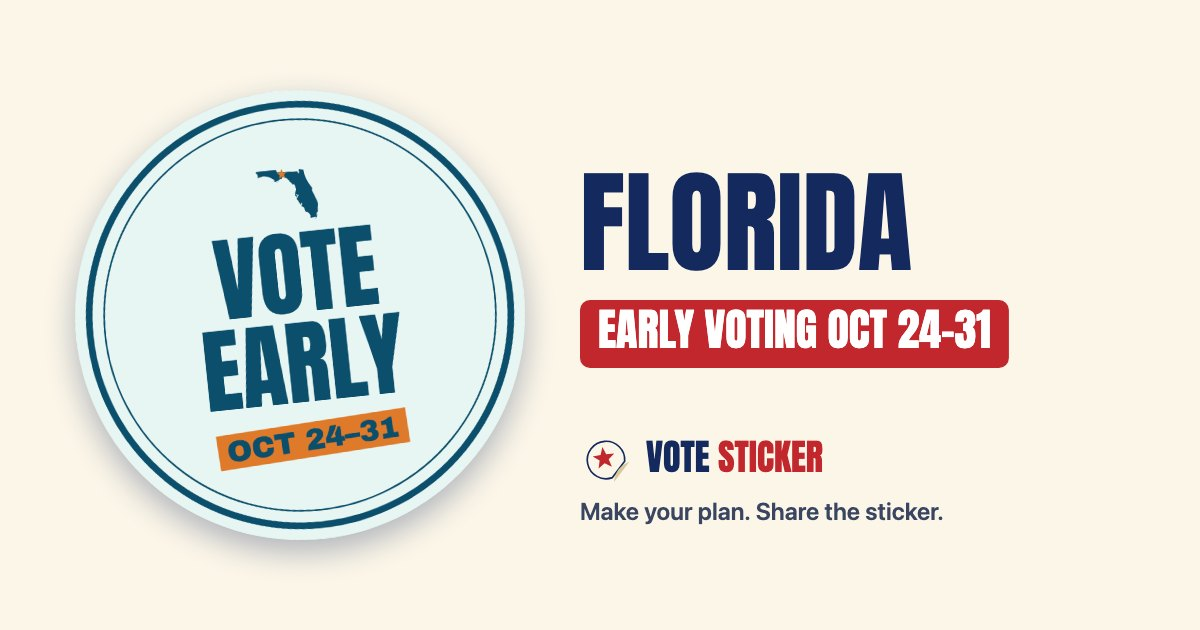
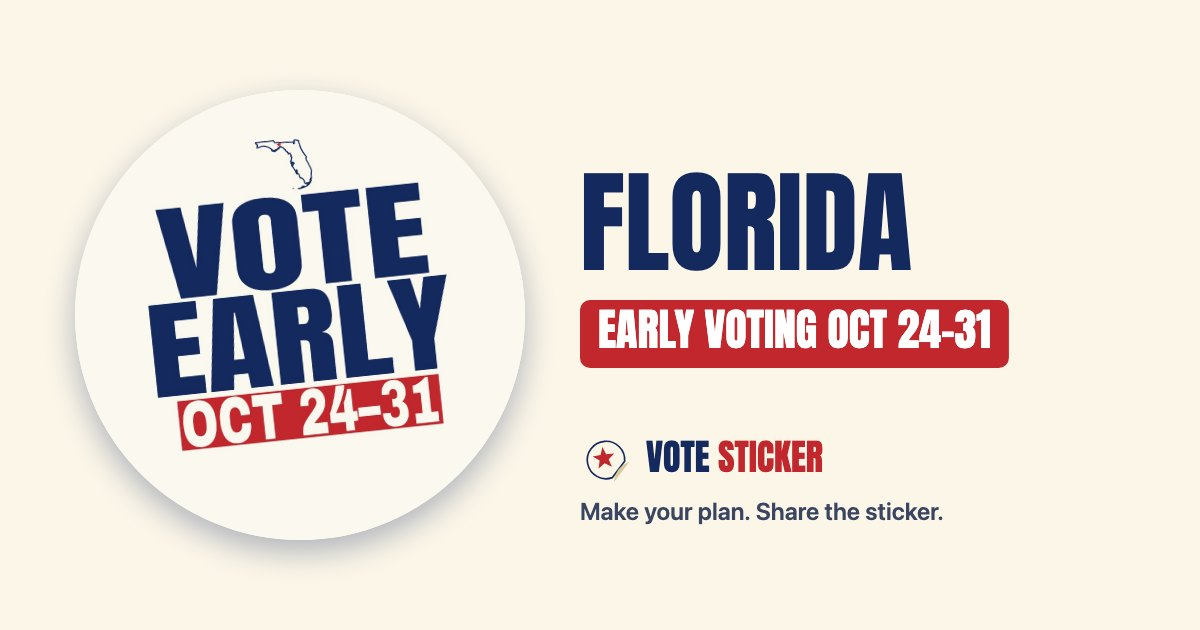
Spanish messages, FL/MD/NJ sets, prompt rewrite with a fixed core four and six free concepts
- Maker: Vota temprano, Vota por correo, Vota 3 de nov, Yo voté, Yo voté temprano, Yo voté por correo
  (tú form; day-first Spanish date bars); line cap 10 characters
- Ready-made sets: Florida 6, Maryland 6, New Jersey 4 (16 of 32 kept; originals in originals/)
- Prompts: context and three example images in the setup message; images 1-4 fixed spec, 5-10 six
  different concepts; solid outlines and condensed display type required; FL, MD, NJ reopened

Changed region(s): [[0.0617, 0.1508, 0.4317, 0.8444]]

diff --git a/docs/round3-prompts-one-state.html b/docs/round3-prompts-one-state.html
@@ -6,70 +6,74 @@ h1,h2,h3,h4{color:var(--ink)}h4{margin:28px 0 8px}
 pre{white-space:pre-wrap;background:var(--panel);border:1px solid var(--line);padding:40px 14px 14px;border-radius:8px;font-size:14px}
 .done{margin:4px 0;color:#6b7080}h4 label{cursor:pointer;display:flex;gap:10px;align-items:center}h4 input,.done input{width:20px;height:20px}h4.is-done{opacity:.55;text-decoration:line-through}.blk{position:relative}button{position:absolute;right:8px;top:8px;background:#14295E;color:#fff;border:0;border-radius:6px;padding:6px 12px;cursor:pointer}</style></head><body>
 <h1>Ready-Made Set Prompts: One State at a Time</h1>
-<p>Written October 19, 2026, after ChatGPT stalled on the six-state prompt. Covers every state without a</p>
-<p>ready-made set; dates come from <code>site/states.js</code> (regenerate the list with <code>build/prompt_states.py</code>). Start a new chat, attach 2 or 3 Texas images, send the setup message, then send</p>
-<p>one state message. Send the next state only after that state&#x27;s zip arrives. Two states per chat is the</p>
-<p>most to try; start a fresh chat after that.</p>
-<p>The Shape layout changed: round 2 lost 15 of 60 images to headlines set inside the state outline, so</p>
-<p>text and outline never overlap now.</p>
+<p>Updated October 19, 2026 (evening). Covers every state that still needs a set; dates come from</p>
+<p><code>site/states.js</code> (regenerate with <code>build/prompt_states.py</code>, then <code>build/prompts_html.py</code>).</p>
+<p>**How to run it:** start a new chat. Attach these three images from <code>site/assets/states/</code> as the</p>
+<p>examples: <code>tx/tx-vote-2.jpg</code> (Texas, big type), <code>md/md-vote-1.jpg</code> (Maryland, large solid map), and</p>
+<p><code>nc/nc-vote-2.jpg</code> (North Carolina, badge). Send the setup message, wait for &quot;Ready,&quot; then send one state</p>
+<p>message. Send the next state only after that state&#x27;s zip arrives. Start a fresh chat every two states.</p>
+<p>**Why the split:** images 1 to 4 follow a fixed spec so every state has a dependable core set. Images 5</p>
+<p>to 10 are six different design ideas, because Florida, Maryland, and New Jersey came back as one layout</p>
+<p>in ten colors.</p>
 <h2>1. Setup Message (Once per Chat)</h2>
-<div class="blk"><button onclick="navigator.clipboard.writeText(document.getElementById('b1').innerText);this.textContent='Copied'">Copy</button><pre id="b1">I&#x27;m making nonpartisan &quot;vote&quot; profile pictures for friends in different states. The attached Texas images show the style. I&#x27;ll send one state at a time. For each state you make 10 images, check them, and give me one zip. Then stop and wait for the next state.
+<div class="blk"><button onclick="navigator.clipboard.writeText(document.getElementById('b1').innerText);this.textContent='Copied'">Copy</button><pre id="b1">WHAT THIS IS
+I run VoteSticker.org, a free, nonpartisan site where people pick their state and save a &quot;vote&quot; sticker to use as their profile picture on Facebook, Instagram, LinkedIn, and X. Each state gets a set of 10 ready-made stickers with that state&#x27;s own voting message and dates. The goal: a friend scrolling past sees it at thumbnail size, reads the message instantly, and checks when they can vote. Someone from that state should be proud to use it.
 
-FORMAT (every image)
-- One square image per reply, 1:1, at least 1080 x 1080 px. Never a grid, collage, contact sheet, or preview of several designs in one image.
-- These are profile pictures. Facebook, Instagram, LinkedIn, and X crop them to a circle and show them as small as 40 px. Keep ALL text and art inside a centered circle about 80% of the image width. The background color fills the whole square; corners hold only that color.
+The three attached images are examples of what works: a huge condensed headline, a solid state outline with a star on the capital, the dates on a solid bar, two or three flat colors. Match their quality and clarity, not their exact layout.
 
-TEXT
+I&#x27;ll send one state at a time. For each state: make 10 images one at a time, check them, give me one zip, then stop and wait.
+
+RULES FOR ALL 10 IMAGES
+Format
+- One square image per reply, at least 1080 x 1080 px. Never a grid, collage, or preview sheet of several designs.
+- Social sites crop profile pictures to a circle and show them as small as 40 px. Keep ALL text and art inside a centered circle about 80% of the image width. Corners hold only background color.
+
+Text
 - Use only the exact headline and date line I give for the state. No other words, no URL, no hashtags, no state name.
-- Each state&#x27;s dates are different. Never carry a date, outline, or capital over from an earlier state in this chat.
-- All caps, spelled exactly. Date ranges use an en dash (OCT 24–NOV 1), never a hyphen or em dash.
-- Headline in a heavy condensed sans like Anton; date line in a wide heavy sans like Archivo Black.
-- The headline is the picture. Its two lines together take up about half the image&#x27;s height and most of the circle&#x27;s width, centered. The date line sits directly under it, at least a third of the headline&#x27;s letter height.
-- Test every image by imagining it shrunk to a 48 px circle: VOTE EARLY (or the given headline) and the date must still be readable.
+- Spell everything exactly, all caps. Date ranges use an en dash (OCT 24–NOV 1), never a hyphen.
+- Each state&#x27;s details are its own. Never carry a date, outline, or capital over from an earlier state.
+- The headline is the picture: its lines take up about half the image&#x27;s height, in a heavy condensed display face like Anton or Bebas Neue (never a regular bold sans like Arial). The date line sits right under it, at least a third of the headline&#x27;s letter height, in a wide heavy sans like Archivo Black.
+- Shrunk to a 48 px circle, the headline and date must still read.
 
-ART
-- Flat vector, 2 or 3 solid colors, high contrast. No gradients, textures, shadows, photos, or 3D.
-- The only art allowed: the state outline, the capital star, an optional thin ring inside the crop circle, and the solid bar behind the date. No scenes or illustrations: no palm trees, birds, flowers, skylines, sunsets, beaches, mountains, or landmarks. They turn to mush at thumbnail size and push the words down.
-- The state outline stays small: no wider than about a third of the image, above or beside the headline.
-- Never put the headline inside the state outline, and never let text overlap the outline. Keep the outline above, beside, or below the text, or leave it out.
-- The outline must be accurate at its true proportions. Never stretch or squash it; make it smaller instead.
-- A small five-point star marks the capital at its real location. The star never touches or cuts into a letter.
+Art
+- Flat vector, 2 or 3 solid colors, strong contrast. No gradients, photos, textures, or 3D.
+- The state outline is a solid filled shape (never a thin line drawing), accurate, at its true proportions, never stretched. A small five-point star marks the capital at its real location and never touches a letter.
+- Never put the headline inside the outline or let text overlap it.
 - Nonpartisan: no flags, party symbols, red-versus-blue themes, ballots, checkmarks, people, or logos.
+- No scenes or illustrations: no palm trees, birds, skylines, sunsets, beaches, or landmarks.
 
-PALETTES
-- Cream: background #FBF8F0, ink #14295E, accent #C1272D
-- Navy: background #0F2558, ink #FBF6E8, accent #B3262C
-- Forest: background #0A3D2C, ink #FBF6E8, accent #D4AF4A
-- Sand: background #EBDABF, ink #1F1E1C, accent #A9552A
-- Sky: background #D4E8FA, ink #14295E, accent #C1272D
-- Sage: background #8FAF88, ink #0B3A23, accent #E0BC4E
+IMAGES 1 TO 4: THE CORE SET (follow exactly)
+1. Shape layout in Cream: background #FBF8F0, ink #14295E, accent #C1272D. A large solid outline across the upper part (as wide as the headline), star on the capital, headline below it, dates in an accent bar.
+2. Big type layout in Navy: background #0F2558, ink #FBF6E8, accent #B3262C. A small outline on top, the headline as big as it goes, dates in an accent bar.
+3. Badge layout in Forest: background #0A3D2C, ink #FBF6E8, accent #D4AF4A. A thin ring just inside the crop circle, small outline, headline, dates in an accent bar.
+4. Shape layout in the state&#x27;s own palette (given in the state message).
 
-LAYOUTS
-- Shape: medium state outline in ink in the upper part of the circle, capital star on it, headline below the outline (not touching it), date line in an accent bar at the bottom.
-- Big type: small state outline on top, huge two-line headline, date line in a solid accent-color bar.
-- Badge: thin ring just inside the crop circle, small state outline, headline, date in an accent bar.
-
-IMAGES 1 TO 4 (guidelines)
-Shape in Cream, Big type in Navy, Badge in Forest, and Shape in the state&#x27;s own palette.
-
-IMAGES 5 TO 10 (variations)
-Six more. The goal is a picture that makes a friend scrolling past stop and check when they can vote, and that someone from this state would be proud to use. Vary only the palette (any 2 or 3 flat colors with strong contrast, including colors that feel like the state), the type arrangement (stacked, slightly tilted, headline in a solid shape), the position of the small outline, and whether there&#x27;s a ring. No added illustrations. Everything in FORMAT, TEXT, and ART still applies. Make the six different from each other and from images 1 to 4.
+IMAGES 5 TO 10: SIX DIFFERENT IDEAS (creative freedom inside the rules)
+Make each one a different concept, not the core layouts in new colors. Pick six of these, or invent your own that fit the rules:
+- Map hero: the solid outline large and in the accent color, headline stacked below it big.
+- Side by side: outline on the left, headline stacked on the right, dates under both.
+- Sticker: a disc with a thick ring and a thin inner ring, dates on a bar tipped a few degrees.
+- Two-tone headline: first line in one color, second line in the accent, dates between two short rules.
+- Stamp: the headline knocked out of a solid rounded block, outline above, dates below.
+- Split field: the background split on a clean diagonal into two flat colors, headline across the split in a color that reads on both.
+- Ticket: the headline inside a ticket shape with notched corners, dates on the stub.
+- Bold border: a thick solid border band inside the circle in the accent color, everything centered inside it.
+Colors for 5 to 10: any 2 or 3 flat colors with strong contrast, including colors that feel like the state (its landscape or seasons), never red against blue. One small flat accent is allowed (a wave line, a leaf, a sunburst) if it&#x27;s simple, one color, and smaller than the outline.
+Before making them, list the six concepts you picked in one line each, then make them.
 
 BEFORE THE ZIP: CHECK ALL 10
-Look at each image again and redo any that fails:
-1. Headline and date line spelled exactly as given, nothing added, en dash in ranges.
-2. Everything inside the center circle; corners are plain background. One design per image, not a grid.
-2b. Shrunk to 48 px, the headline and date still read. The headline fills about half the height. No scenery or illustrations.
-3. Text never overlaps the state outline; the star doesn&#x27;t touch a letter.
-4. Outline accurate and not stretched; star on the capital, not a big city or border.
-5. Headline still readable shrunk to 48 px.
-6. No two images look nearly the same.
-Then tell me &quot;10 of 10 checked&quot; and list any you redid and why.
+Redo any image that fails:
+1. Headline and date line exactly as given, en dash in ranges, nothing added.
+2. Everything inside the center circle, one design per image.
+3. Readable at 48 px; the headline fills about half the height.
+4. Solid outline, accurate, not stretched; star on the capital, clear of letters; no text over the outline.
+5. Images 5 to 10 are six different concepts, not color swaps of each other or of 1 to 4.
+Then say &quot;10 of 10 checked&quot; and list any you redid and why.
 
 THE ZIP
 - One zip per state named [State]-[Message]-10-Profile-Pictures (for example Florida-Vote-Early-10-Profile-Pictures).
 - Inside: exactly 10 PNGs named [state]-01-[layout]-[palette].png through [state]-10-..., lowercase with hyphens.
-- After the zip, list the 10 file names it holds, then stop and wait for my next state.
+- After the zip, list the 10 file names, then stop and wait for my next state.
 
 Reply &quot;Ready&quot; and wait for the first state.</pre></div>
 <h2>2. State Messages (One per Turn)</h2>
@@ -89,6 +93,7 @@ Reply &quot;Ready&quot; and wait for the first state.</pre></div>
 <p class="done"><input type="checkbox" checked disabled aria-label="Colorado done"> <s>Colorado</s> (7 stickers live)</p>
 <p class="done"><input type="checkbox" checked disabled aria-label="Kansas done"> <s>Kansas</s> (10 stickers live)</p>
 <p class="done"><input type="checkbox" checked disabled aria-label="District of Columbia done"> <s>District of Columbia</s> (10 stickers live)</p>
+<p>Redo (current sets look too much alike; they stay live until replaced): Florida, New Jersey, Maryland.</p>
 <h3>Verified Dates</h3>
 <h4><label><input type="checkbox" class="track" data-key="-florida-vote-early-oct-"> 1. Florida (VOTE / EARLY, OCT 24–31)</label></h4>
 <div class="blk"><button onclick="navigator.clipboard.writeText(document.getElementById('b2').innerText);this.textContent='Copied'">Copy</button><pre id="b2">Florida. Use these exact details in all 10 images, and nothing from earlier states: Headline: VOTE / EARLY. Date line: OCT 24–31. Capital star: Tallahassee. Include the panhandle at its true length; keep the outline small rather than squashing it. State palette (gulf and citrus): background #E8F6F3, ink #0B4F6C, accent #F28F3B. Make the 10, check them, then send the zip.</pre></div>

diff --git a/site/app.js b/site/app.js
@@ -70,7 +70,7 @@
 		{ id: 'type', name: 'Big type' },
 		{ id: 'badge', name: 'Badge' }
 	];
-	// Short lines only, at most 9 characters each, so a card reads at 40 px in a comment thread
+	// Short lines only, at most 10 characters each (POR CORREO), so a card reads at 40 px in a comment thread
 	// (Garrett, October 19; QA enforces the limit).
 	// `early` headlines only where a verified row has early voting, `mail` only in all-mail states;
 	// everywhere else the card says VOTE NOV 3.
@@ -82,9 +82,16 @@
 		// who has voted, any state, any day.
 		// Its date bar names the state and year instead of a date.
 		ivoted: { label: 'I voted', lines: ['I VOTED'], stateLine: true },
-		yovote: { label: 'Yo voté (Spanish)', lines: ['YO VOTÉ'], stateLine: true },
 		mailed: { mail: true, label: 'I voted by mail', lines: ['I VOTED', 'BY MAIL'], stateLine: true },
 		voted: { early: true, label: 'I voted early', lines: ['I VOTED', 'EARLY'] },
+		// Spanish (October 19): the informal tú form used in Mexican and US Latino voter outreach. Date bars
+		// put the day first ("19–30 OCT", "HASTA EL 27 OCT").
+		votatemprano: { early: true, es: true, label: 'Vota temprano (español)', lines: ['VOTA', 'TEMPRANO'] },
+		votacorreo: { mail: true, es: true, label: 'Vota por correo (español)', lines: ['VOTA', 'POR CORREO'] },
+		vota3nov: { dated: true, es: true, label: 'Vota 3 de nov (español)', lines: ['VOTA', '3 DE NOV'] },
+		yovote: { es: true, label: 'Yo voté (español)', lines: ['YO VOTÉ'], stateLine: true },
+		yovotetemprano: { early: true, es: true, label: 'Yo voté temprano (español)', lines: ['YO VOTÉ', 'TEMPRANO'] },
+		yovotecorreo: { mail: true, es: true, label: 'Yo voté por correo (español)', lines: ['YO VOTÉ', 'POR CORREO'], stateLine: true },
 	};
 
 	function hasEarly(st) { return st.status === 'verified' && st.kind !== 'none'; }
@@ -134,7 +141,9 @@
 	// The date line a card starts with, for a state and headline. A headline that already carries the
 	// date (VOTE NOV 3) gets ELECTION DAY under it.
 	function defaultDateLine(st, headline) {
-		if (headline && HEADLINES[headline] && HEADLINES[headline].dated) { return 'ELECTION DAY'; }
+		var hd = headline && HEADLINES[headline];
+		if (hd && hd.es && !hd.stateLine) { return spanishDateLine(st, hd); }
+		if (hd && hd.dated) { return 'ELECTION DAY'; }
 		// Short enough to read in a thumbnail: the name up to 10 letters, else the postal code (NC 2026).
 		if (headline && HEADLINES[headline] && HEADLINES[headline].stateLine) { return (st.name.length <= 10 ? st.name.toUpperCase() : st.abbr) + ' ' + ELECTION.day.slice(0, 4); }
 		if (!hasEarly(st)) { return electionLine(); }
@@ -142,6 +151,19 @@
 		if (st.kind === 'mail') { return 'DUE ' + shortDate(day(st.end)); }
 		if (!st.start || !st.end) { return electionLine(); }
 		return rangeLine(day(st.start), day(st.end));
+	}
+
+	// Spanish date bars: day before month, "HASTA EL" for a last day.
+	var MESES = { JAN: 'ENE', APR: 'ABR', AUG: 'AGO', SEP: 'SEPT', DEC: 'DIC' };
+	function mes(d) { var m = MONTHS[d.getMonth()]; return MESES[m] || m; }
+	function spanishDateLine(st, hd) {
+		if (hd.dated || !hasEarly(st)) { return 'DÍA DE ELECCIONES'; }
+		if (st.kind === 'mail') { return 'HASTA EL ' + day(st.end).getDate() + ' ' + mes(day(st.end)); }
+		var by = /^BY ([A-Z]{3}) (\d+)$/.exec(st.dateLine || '');
+		if (by) { return 'HASTA EL ' + by[2] + ' ' + (MESES[by[1]] || by[1]); }
+		if (!st.start || !st.end) { return 'DÍA DE ELECCIONES'; }
+		var a = day(st.start), b = day(st.end);
+		return a.getMonth() === b.getMonth() ? a.getDate() + '–' + b.getDate() + ' ' + mes(b) : a.getDate() + ' ' + mes(a) + '–' + b.getDate() + ' ' + mes(b);
 	}
 
 	function luminance(hex) {

diff --git a/build/prompt_states.py b/build/prompt_states.py
@@ -104,15 +104,18 @@ def main():
         if l.strip().startswith('{"abbr"'):
             r = json.loads(l.strip().rstrip(','))
             rows[r['abbr']] = r
-    have = {p.name.upper() for p in (ROOT / 'site/assets/states').iterdir() if p.is_dir()}
+    # States whose first sets were too samey to keep as final (October 19): redo them; their current
+    # images stay live until the new ones replace them.
+    redo = {'FL', 'MD', 'NJ'}
+    have = {p.name.upper() for p in (ROOT / 'site/assets/states').iterdir() if p.is_dir()} - redo
     todo = [a for a in POP if a in rows and a not in have]
-    assert set(todo) | have == set(rows), set(rows) - set(todo) - have
     groups = [('Verified Dates', lambda r: r['status'] == 'verified'),
               ('Dates Not Yet Verified (Election Day Message)', lambda r: r['status'] != 'verified')]
     out = ['### Already Built (Skip These)\n']
     for a in [a for a in POP if a in have]:
         k = len(list((ROOT / 'site/assets/states' / a.lower()).glob('*.jpg')))
         out.append(f'- ~~{rows[a]["name"]}~~ ({k} stickers live)')
+    out.append(f'\nRedo (current sets look too much alike; they stay live until replaced): {", ".join(rows[a]["name"] for a in POP if a in redo)}.')
     out.append('')
     n = 0
     for title, test in groups:

diff --git a/docs/round3-prompts-one-state.md b/docs/round3-prompts-one-state.md
@@ -1,73 +1,78 @@
 # Ready-Made Set Prompts: One State at a Time
 
-Written October 19, 2026, after ChatGPT stalled on the six-state prompt. Covers every state without a
-ready-made set; dates come from `site/states.js` (regenerate the list with `build/prompt_states.py`). Start a new chat, attach 2 or 3 Texas images, send the setup message, then send
-one state message. Send the next state only after that state's zip arrives. Two states per chat is the
-most to try; start a fresh chat after that.
+Updated October 19, 2026 (evening). Covers every state that still needs a set; dates come from
+`site/states.js` (regenerate with `build/prompt_states.py`, then `build/prompts_html.py`).
 
-The Shape layout changed: round 2 lost 15 of 60 images to headlines set inside the state outline, so
-text and outline never overlap now.
+**How to run it:** start a new chat. Attach these three images from `site/assets/states/` as the
+examples: `tx/tx-vote-2.jpg` (Texas, big type), `md/md-vote-1.jpg` (Maryland, large solid map), and
+`nc/nc-vote-2.jpg` (North Carolina, badge). Send the setup message, wait for "Ready," then send one state
+message. Send the next state only after that state's zip arrives. Start a fresh chat every two states.
+
+**Why the split:** images 1 to 4 follow a fixed spec so every state has a dependable core set. Images 5
+to 10 are six different design ideas, because Florida, Maryland, and New Jersey came back as one layout
+in ten colors.
 
 ## 1. Setup Message (Once per Chat)
 
 ```
-I'm making nonpartisan "vote" profile pictures for friends in different states. The attached Texas images show the style. I'll send one state at a time. For each state you make 10 images, check them, and give me one zip. Then stop and wait for the next state.
+WHAT THIS IS
+I run VoteSticker.org, a free, nonpartisan site where people pick their state and save a "vote" sticker to use as their profile picture on Facebook, Instagram, LinkedIn, and X. Each state gets a set of 10 ready-made stickers with that state's own voting message and dates. The goal: a friend scrolling past sees it at thumbnail size, reads the message instantly, and checks when they can vote. Someone from that state should be proud to use it.
 
-FORMAT (every image)
-- One square image per reply, 1:1, at least 1080 x 1080 px. Never a grid, collage, contact sheet, or preview of several designs in one image.
-- These are profile pictures. Facebook, Instagram, LinkedIn, and X crop them to a circle and show them as small as 40 px. Keep ALL text and art inside a centered circle about 80% of the image width. The background color fills the whole square; corners hold only that color.
+The three attached images are examples of what works: a huge condensed headline, a solid state outline with a star on the capital, the dates on a solid bar, two or three flat colors. Match their quality and clarity, not their exact layout.
 
-TEXT
+I'll send one state at a time. For each state: make 10 images one at a time, check them, give me one zip, then stop and wait.
+
+RULES FOR ALL 10 IMAGES
+Format
+- One square image per reply, at least 1080 x 1080 px. Never a grid, collage, or preview sheet of several designs.
+- Social sites crop profile pictures to a circle and show them as small as 40 px. Keep ALL text and art inside a centered circle about 80% of the image width. Corners hold only background color.
+
+Text
 - Use only the exact headline and date line I give for the state. No other words, no URL, no hashtags, no state name.
-- Each state's dates are different. Never carry a date, outline, or capital over from an earlier state in this chat.
-- All caps, spelled exactly. Date ranges use an en dash (OCT 24–NOV 1), never a hyphen or em dash.
-- Headline in a heavy condensed sans like Anton; date line in a wide heavy sans like Archivo Black.
-- The headline is the picture. Its two lines together take up about half the image's height and most of the circle's width, centered. The date line sits directly under it, at least a third of the headline's letter height.
-- Test every image by imagining it shrunk to a 48 px circle: VOTE EARLY (or the given headline) and the date must still be readable.
+- Spell everything exactly, all caps. Date ranges use an en dash (OCT 24–NOV 1), never a hyphen.
+- Each state's details are its own. Never carry a date, outline, or capital over from an earlier state.
+- The headline is the picture: its lines take up about half the image's height, in a heavy condensed display face like Anton or Bebas Neue (never a regular bold sans like Arial). The date line sits right under it, at least a third of the headline's letter height, in a wide heavy sans like Archivo Black.
+- Shrunk to a 48 px circle, the headline and date must still read.
 
-ART
-- Flat vector, 2 or 3 solid colors, high contrast. No gradients, textures, shadows, photos, or 3D.
-- The only art allowed: the state outline, the capital star, an optional thin ring inside the crop circle, and the solid bar behind the date. No scenes or illustrations: no palm trees, birds, flowers, skylines, sunsets, beaches, mountains, or landmarks. They turn to mush at thumbnail size and push the words down.
-- The state outline stays small: no wider than about a third of the image, above or beside the headline.
-- Never put the headline inside the state outline, and never let text overlap the outline. Keep the outline above, beside, or below the text, or leave it out.
-- The outline must be accurate at its true proportions. Never stretch or squash it; make it smaller instead.
-- A small five-point star marks the capital at its real location. The star never touches or cuts into a letter.
+Art
+- Flat vector, 2 or 3 solid colors, strong contrast. No gradients, photos, textures, or 3D.
+- The state outline is a solid filled shape (never a thin line drawing), accurate, at its true proportions, never stretched. A small five-point star marks the capital at its real location and never touches a letter.
+- Never put the headline inside the outline or let text overlap it.
 - Nonpartisan: no flags, party symbols, red-versus-blue themes, ballots, checkmarks, people, or logos.
+- No scenes or illustrations: no palm trees, birds, skylines, sunsets, beaches, or landmarks.
 
-PALETTES
-- Cream: background #FBF8F0, ink #14295E, accent #C1272D
-- Navy: background #0F2558, ink #FBF6E8, accent #B3262C
-- Forest: background #0A3D2C, ink #FBF6E8, accent #D4AF4A
-- Sand: background #EBDABF, ink #1F1E1C, accent #A9552A
-- Sky: background #D4E8FA, ink #14295E, accent #C1272D
-- Sage: background #8FAF88, ink #0B3A23, accent #E0BC4E
+IMAGES 1 TO 4: THE CORE SET (follow exactly)
+1. Shape layout in Cream: background #FBF8F0, ink #14295E, accent #C1272D. A large solid outline across the upper part (as wide as the headline), star on the capital, headline below it, dates in an accent bar.
+2. Big type layout in Navy: background #0F2558, ink #FBF6E8, accent #B3262C. A small outline on top, the headline as big as it goes, dates in an accent bar.
+3. Badge layout in Forest: background #0A3D2C, ink #FBF6E8, accent #D4AF4A. A thin ring just inside the crop circle, small outline, headline, dates in an accent bar.
+4. Shape layout in the state's own palette (given in the state message).
 
-LAYOUTS
-- Shape: medium state outline in ink in the upper part of the circle, capital star on it, headline below the outline (not touching it), date line in an accent bar at the bottom.
-- Big type: small state outline on top, huge two-line headline, date line in a solid accent-color bar.
-- Badge: thin ring just inside the crop circle, small state outline, headline, date in an accent bar.
-
-IMAGES 1 TO 4 (guidelines)
-Shape in Cream, Big type in Navy, Badge in Forest, and Shape in the state's own palette.
-
-IMAGES 5 TO 10 (variations)
-Six more. The goal is a picture that makes a friend scrolling past stop and check when they can vote, and that someone from this state would be proud to use. Vary only the palette (any 2 or 3 flat colors with strong contrast, including colors that feel like the state), the type arrangement (stacked, slightly tilted, headline in a solid shape), the position of the small outline, and whether there's a ring. No added illustrations. Everything in FORMAT, TEXT, and ART still applies. Make the six different from each other and from images 1 to 4.
+IMAGES 5 TO 10: SIX DIFFERENT IDEAS (creative freedom inside the rules)
+Make each one a different concept, not the core layouts in new colors. Pick six of these, or invent your own that fit the rules:
+- Map hero: the solid outline large and in the accent color, headline stacked below it big.
+- Side by side: outline on the left, headline stacked on the right, dates under both.
+- Sticker: a disc with a thick ring and a thin inner ring, dates on a bar tipped a few degrees.
+- Two-tone headline: first line in one color, second line in the accent, dates between two short rules.
+- Stamp: the headline knocked out of a solid rounded block, outline above, dates below.
+- Split field: the background split on a clean diagonal into two flat colors, headline across the split in a color that reads on both.
+- Ticket: the headline inside a ticket shape with notched corners, dates on the stub.
+- Bold border: a thick solid border band inside the circle in the accent color, everything centered inside it.
+Colors for 5 to 10: any 2 or 3 flat colors with strong contrast, including colors that feel like the state (its landscape or seasons), never red against blue. One small flat accent is allowed (a wave line, a leaf, a sunburst) if it's simple, one color, and smaller than the outline.
+Before making them, list the six concepts you picked in one line each, then make them.
 
 BEFORE THE ZIP: CHECK ALL 10
-Look at each image again and redo any that fails:
-1. Headline and date line spelled exactly as given, nothing added, en dash in ranges.
-2. Everything inside the center circle; corners are plain background. One design per image, not a grid.
-2b. Shrunk to 48 px, the headline and date still read. The headline fills about half the height. No scenery or illustrations.
-3. Text never overlaps the state outline; the star doesn't touch a letter.
-4. Outline accurate and not stretched; star on the capital, not a big city or border.
-5. Headline still readable shrunk to 48 px.
-6. No two images look nearly the same.
-Then tell me "10 of 10 checked" and list any you redid and why.
+Redo any image that fails:
+1. Headline and date line exactly as given, en dash in ranges, nothing added.
+2. Everything inside the center circle, one design per image.
+3. Readable at 48 px; the headline fills about half the height.
+4. Solid outline, accurate, not stretched; star on the capital, clear of letters; no text over the outline.
+5. Images 5 to 10 are six different concepts, not color swaps of each other or of 1 to 4.
+Then say "10 of 10 checked" and list any you redid and why.
 
 THE ZIP
 - One zip per state named [State]-[Message]-10-Profile-Pictures (for example Florida-Vote-Early-10-Profile-Pictures).
 - Inside: exactly 10 PNGs named [state]-01-[layout]-[palette].png through [state]-10-..., lowercase with hyphens.
-- After the zip, list the 10 file names it holds, then stop and wait for my next state.
+- After the zip, list the 10 file names, then stop and wait for my next state.
 
 Reply "Ready" and wait for the first state.
 ```
@@ -92,6 +97,8 @@ message stays true either way.
 - ~~Colorado~~ (7 stickers live)
 - ~~Kansas~~ (10 stickers live)
 - ~~District of Columbia~~ (10 stickers live)
+
+Redo (current sets look too much alike; they stay live until replaced): Florida, New Jersey, Maryland.
 
 ### Verified Dates
 
